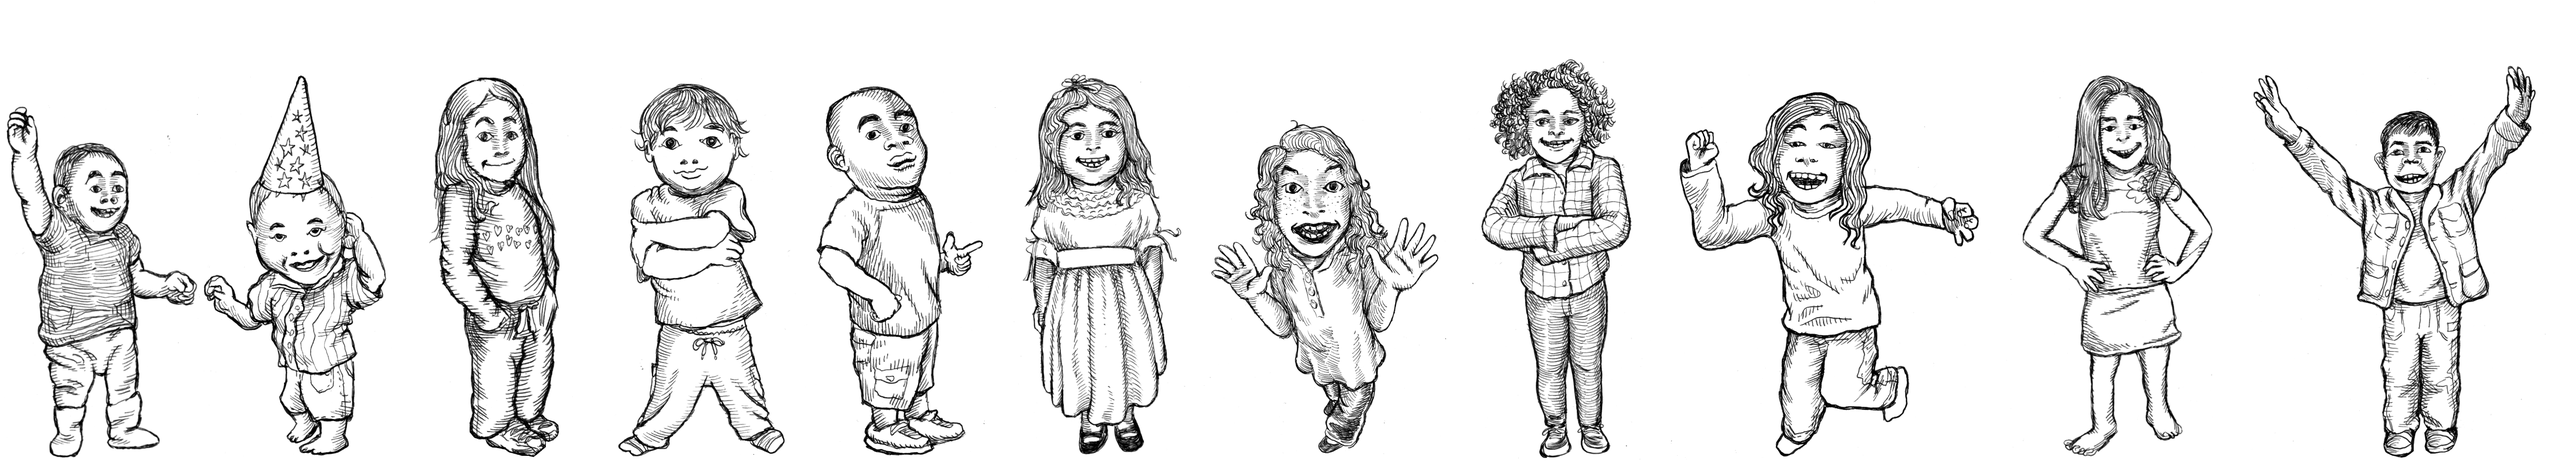
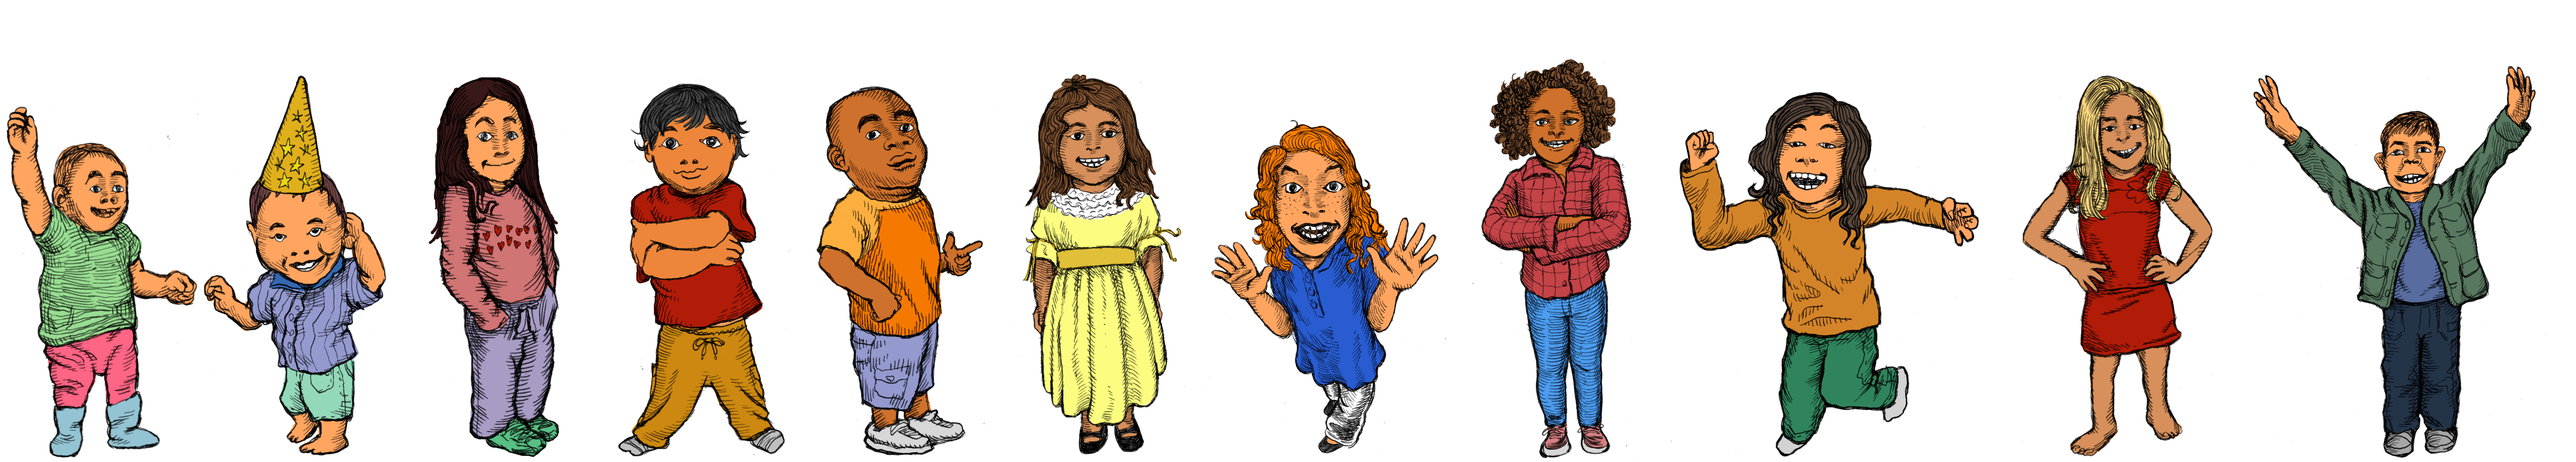
colors!

Changed region(s): [[0.0, 0.125, 0.875, 1.0], [0.875, 0.1562, 1.0, 1.0], [0.5, 0.9375, 0.5312, 0.9688]]

diff --git a/sources/scripts/color.js b/sources/scripts/color.js
@@ -4,21 +4,10 @@ define(['../scripts/utils/tool'], function(Utils)
   var Color = {}
 
   Color.Player = "0xFF3434"
-  Color.Unknown = "0x3c3c3c"
 
   Color.Background = 0xf8ca7c
 
-  Color.textFront = "0x0c0c0c"
-  Color.textBack = "0xfcfcfc"
-
-  Color.TARGET_HEX = 0x00B1B1
-  Color.TARGET_STR = '#00B1B1'
-  Color.AVOID_HEX = 0xFF3434
-  Color.AVOID_STR = '#FF3434'
-  Color.NEAR_HEX = 0x2FE42F
-  Color.NEAR_STR = '#2FE42F'
-  Color.GLOBAL_HEX = 0xFFD834
-  Color.GLOBAL_STR = '#FFD834'
+  Color.colorListHext = ['0x00B1B1', '0xFF3434', '0x2FE42F', '0xFFD834']
 
   Color.grayListHex = [0x000000, 0x111111, 0x222222, 0x333333, 0x444444, 0x555555, 0x666666, 0x777777, 0x888888, 0x999999, 0xAAAAAA, 0xBBBBBB, 0xCCCCCC, 0xDDDDDD, 0xEEEEEE, 0xFFFFFF]
   Color.grayListSharp = ['#000000', '#111111', '#222222', '#333333', '#444444', '#555555', '#666666', '#777777', '#888888', '#999999', '#AAAAAA', '#BBBBBB', '#CCCCCC', '#DDDDDD', '#EEEEEE', '#FFFFFF']
@@ -33,32 +22,9 @@ define(['../scripts/utils/tool'], function(Utils)
     return Color.grayListSharp[Utils.clamp(Math.floor(Color.grayListSharp.length*ratio), 0, Color.grayListSharp.length - 1)]
   }
 
-  // By Pimp Trizkit
-  // http://stackoverflow.com/questions/5560248/programmatically-lighten-or-darken-a-hex-color-or-rgb-and-blend-colors
-  Color.ShadeHexColor = function (color, percent)
+  Color.GetRandomColor = function ()
   {
-    var num = parseInt(color,16),
-    amt = Math.round(2.55 * percent),
-    R = (num >> 16) + amt,
-    G = (num >> 8 & 0x00FF) + amt,
-    B = (num & 0x0000FF) + amt;
-    return (0x1000000 + (R<255?R<1?0:R:255)*0x10000 + (G<255?G<1?0:G:255)*0x100 + (B<255?B<1?0:B:255)).toString(16).slice(1);
-  }
-
-  Color.ShadeColor2 = function(color, percent) {
-    var f=parseInt(color.slice(1),16),t=percent<0?0:255,p=percent<0?percent*-1:percent,R=f>>16,G=f>>8&0x00FF,B=f&0x0000FF;
-    return "#"+(0x1000000+(Math.round((t-R)*p)+R)*0x10000+(Math.round((t-G)*p)+G)*0x100+(Math.round((t-B)*p)+B)).toString(16).slice(1);
-  }
-
-  Color.BlendColors = function(c0, c1, p) {
-    var f=parseInt(c0.slice(1),16),t=parseInt(c1.slice(1),16),R1=f>>16,G1=f>>8&0x00FF,B1=f&0x0000FF,R2=t>>16,G2=t>>8&0x00FF,B2=t&0x0000FF;
-    return (0x1000000+(Math.round((R2-R1)*p)+R1)*0x10000+(Math.round((G2-G1)*p)+G1)*0x100+(Math.round((B2-B1)*p)+B1))//.toString(16).slice(1);
-  }
-
-  Color.ShadeSharpColor = function (color, percent)
-  {
-    var num = parseInt(color.slice(1),16), amt = Math.round(2.55 * percent), R = (num >> 16) + amt, G = (num >> 8 & 0x00FF) + amt, B = (num & 0x0000FF) + amt;
-    return "#" + (0x1000000 + (R<255?R<1?0:R:255)*0x10000 + (G<255?G<1?0:G:255)*0x100 + (B<255?B<1?0:B:255)).toString(16).slice(1);
+    return Color.colorListHext[Utils.clamp(Math.floor(Color.colorListHext.length*Math.random()), 0, Color.colorListHext.length - 1)]
   }
 
   return Color

diff --git a/sources/scripts/settings.js b/sources/scripts/settings.js
@@ -1,5 +1,5 @@
 
-define([], function()
+define(['utils/tool'], function(Tool)
 {
   var Settings = {}
 
@@ -45,9 +45,15 @@ define([], function()
 
   // Characters
   Settings.characterNames = ['Lou', 'Toto', 'Tom', 'Lucie', 'Hely', 'Raoul', 'Chou', 'Poupou', 'Mya', 'Bea', 'Nini']
+  Settings.currentCharacter = 0
   Settings.GetRandomCharacter = function ()
   {
-    return Settings.characterNames[Math.floor(Math.random() * Settings.characterNames.length)]
+    ++Settings.currentCharacter
+    if (Settings.currentCharacter >= Settings.characterNames.length) {
+      Tool.shuffle(Settings.characterNames)
+      Settings.currentCharacter = 0
+    }
+    return Settings.characterNames[Settings.currentCharacter]
   }
 
   // Symbols

diff --git a/sources/scripts/utils/tool.js b/sources/scripts/utils/tool.js
@@ -25,5 +25,24 @@ define([], function ()
             window.setTimeout(callback, 1000 / 60);
           };})();
 
+	// http://stackoverflow.com/questions/2450954/how-to-randomize-shuffle-a-javascript-array
+	Tool.shuffle = function (array)
+	{
+	  var currentIndex = array.length, temporaryValue, randomIndex ;
+
+	  // While there remain elements to shuffle...
+	  while (0 !== currentIndex) {
+
+	    // Pick a remaining element...
+	    randomIndex = Math.floor(Math.random() * currentIndex);
+	    currentIndex -= 1;
+
+	    // And swap it with the current element.
+	    temporaryValue = array[currentIndex];
+	    array[currentIndex] = array[randomIndex];
+	    array[randomIndex] = temporaryValue;
+	  }
+	}
+
 	return Tool
 })

diff --git a/sources/scripts/base/phylactere.js b/sources/scripts/base/phylactere.js
@@ -1,7 +1,7 @@
 
-define(['../settings', '../core/global',
+define(['../settings', '../core/global', '../color',
 '../utils/tool', '../base/boid', '../base/symbol'],
-function(Settings, Global, Tool, Boid, Symbol)
+function(Settings, Global, Color, Tool, Boid, Symbol)
 {
 	var Phylactere = function()
 	{
@@ -28,7 +28,7 @@ function(Settings, Global, Tool, Boid, Symbol)
 				symbol.isPlayer = this.isPlayer
 				symbol.phylactere = this
 				symbol.setColorness(this.colorness)
-				symbol.setColor(this.color)
+				symbol.setColor(Color.GetRandomColor())
 				symbol.setSize(Settings.MIN_SIZE + Settings.MAX_SIZE * Math.random())
 
 				this.boidList.push(symbol)

diff --git a/sources/scripts/base/player.js b/sources/scripts/base/player.js
@@ -40,6 +40,7 @@ function(PIXI, Settings, Mouse, Global, Phylactere, Color, Animation, Tool){
           boid.velocity.x = Math.cos(angle) * Settings.TRANSITION_IMPULSE_SCALE
           boid.velocity.y = Math.sin(angle) * Settings.TRANSITION_IMPULSE_SCALE
           boid.disapearing = true
+          boid.setColorness(1)
         }
 
         var self = this
